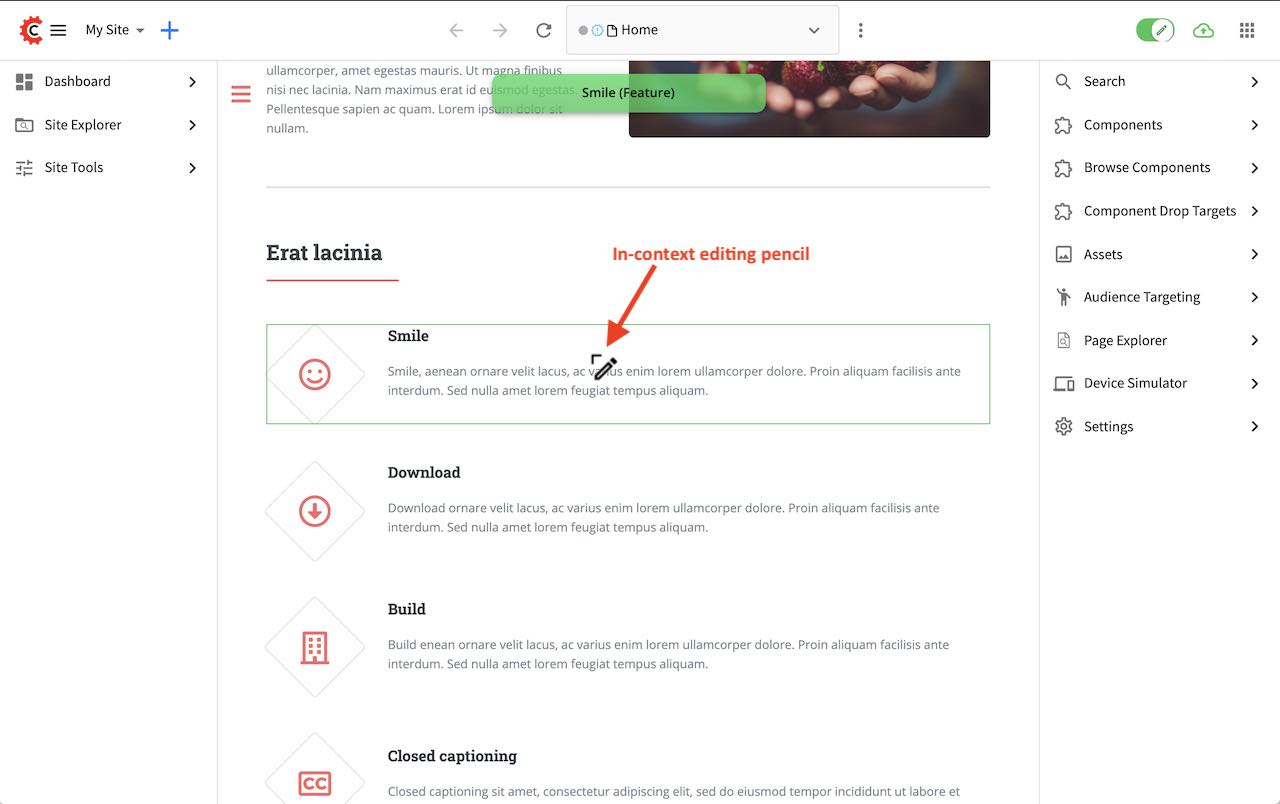
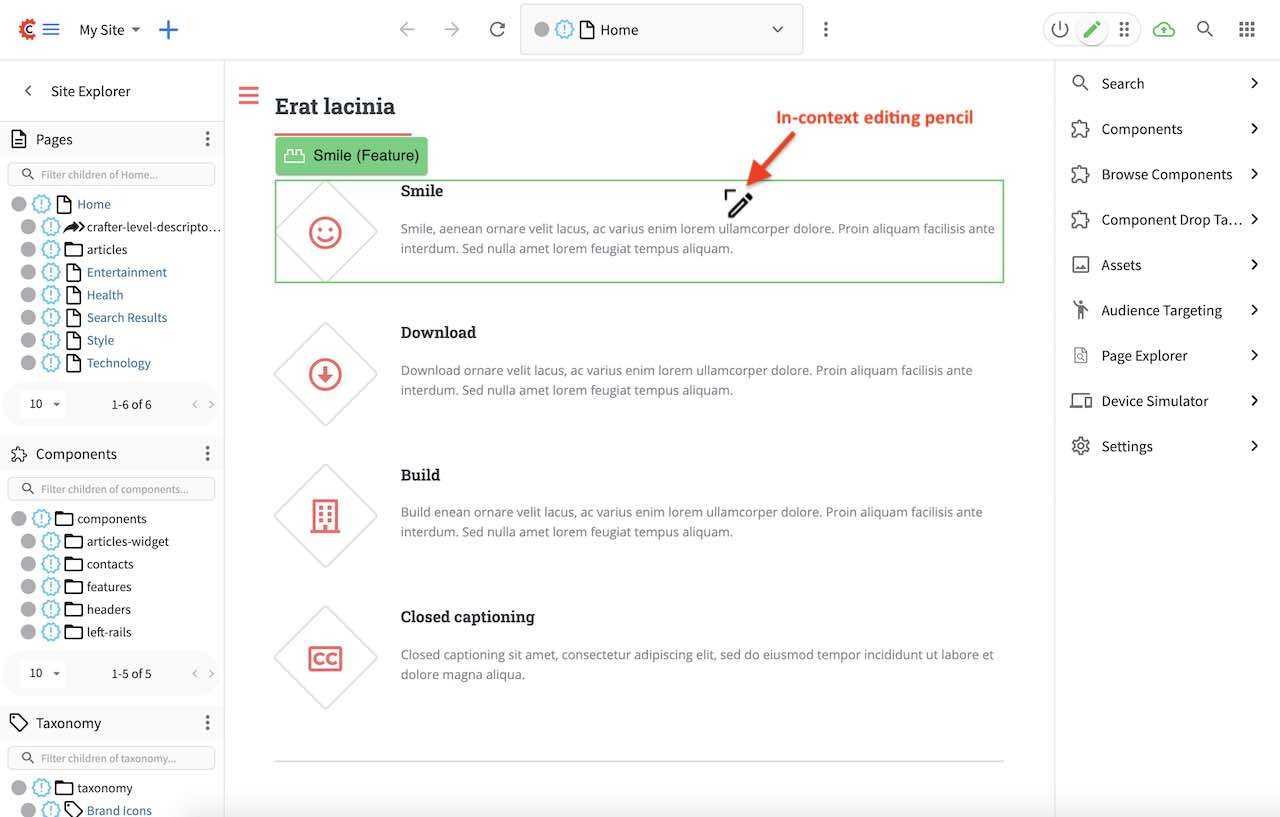
Add keyboard shortcuts for preview ini-context editing #4777

diff --git a/source/content-authors/content-authors-navigating-studio.rst b/source/content-authors/content-authors-navigating-studio.rst
@@ -261,7 +261,7 @@ Experience Builder Panel
 ^^^^^^^^^^^^^^^^^^^^^^^^
 
     * When in preview mode your context navigation will show an additional control beside the publishing status.
-    * The ``Edit Mode`` switch turns on/off the Experience Builder panel which allows you to use in-context editing and various tools for creating your page in a panel on the right
+    * The ``Edit Mode`` and ``Move mode`` icons turns on the Experience Builder panel which allows you to use in-context editing and various tools for creating your page in a panel on the right
     * ``Search`` allows you to search for items such as components, images, etc. in your site
     * ``Components`` allows you to create a component and also lists all available components in your site which can then be dragged and dropped into your page
     * ``Browse Components`` allows you to browse for components which can then be dragged and dropped into your page
@@ -284,7 +284,7 @@ Experience Builder Panel
 In-Context Editing
 ^^^^^^^^^^^^^^^^^^
 
-When in-context editing is turned on (``Edit Mode`` is switched to on), it puts the page in construction mode.  When you hover your mouse around regions of the page that have been wired for in-context editing, a pencil will show up instead of the mouse cursor.
+When in-context editing is turned on (``Edit mode`` pencil is green or ``Move mode`` two vertical ellipsis is blue at the top), it puts the page in construction mode.  When you hover your mouse around regions of the page that have been wired for in-context editing, a pencil will show up instead of the mouse cursor.
 
 .. image:: /_static/images/content-author/preview-page-in-context-editing.jpg
     :width: 75 %
@@ -299,6 +299,20 @@ This pencil allows you to edit the content of the wired region, including the cu
     :align: center
     :alt: Navigating Studio - Preview In-Context Editing
 
+To turn off in-context editing, click on the ``Switch off editing`` off switch icon at the top, which will then turn the ``Edit mode``/``Move mode`` icon to gray.
+
+Convenient keyboard shortcuts are provided for turning on/off in-context editing:
+
+* **e** toggle ``Edit mode`` ON/OFF
+* **z** disable in-context editing while held down (to click through)
+* **m** toggle ``Move mode`` ON/OFF
+* **?** get help
+
+
+.. image:: /_static/images/content-author/preview-in-context-editing-shortcuts.png
+    :width: 50 %
+    :align: center
+    :alt: Navigating Studio - Preview In-Context Editing Keyboard Shortcuts
 
 
 Search
